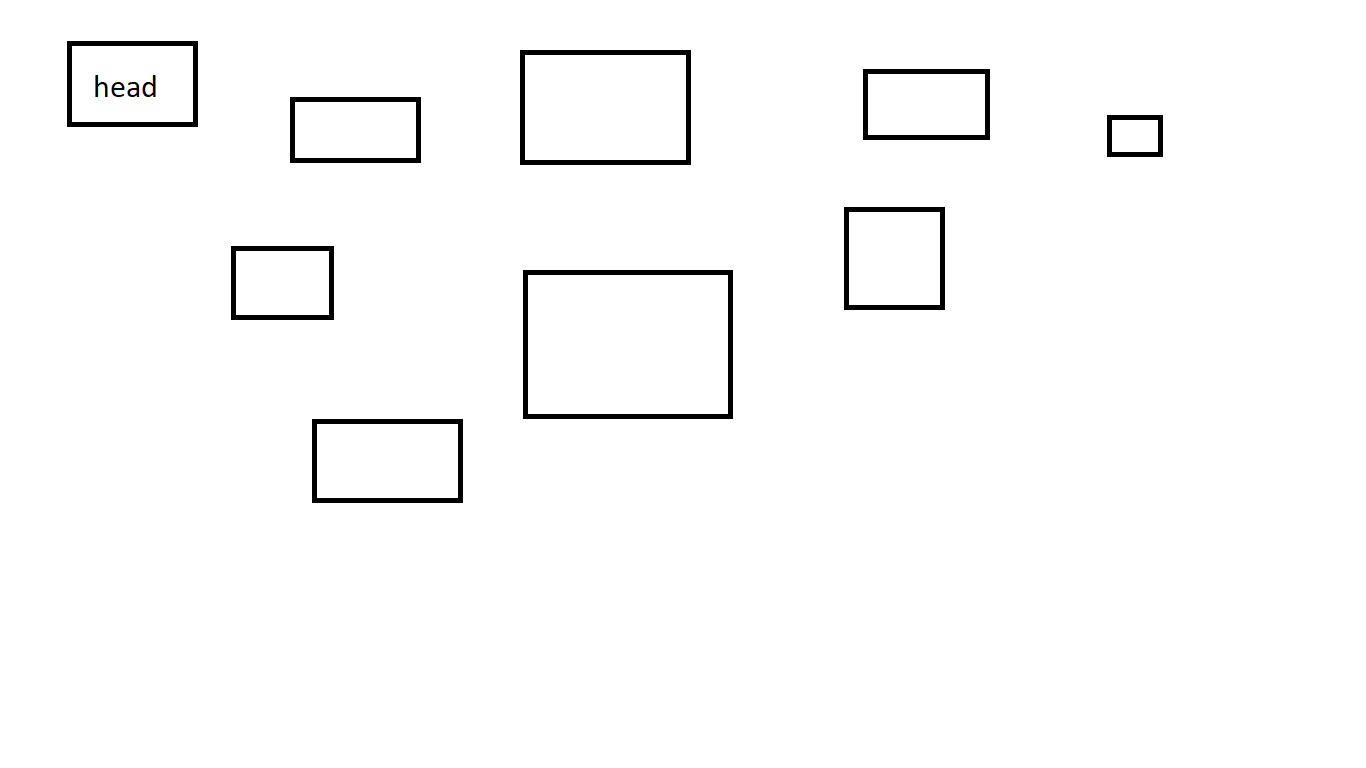
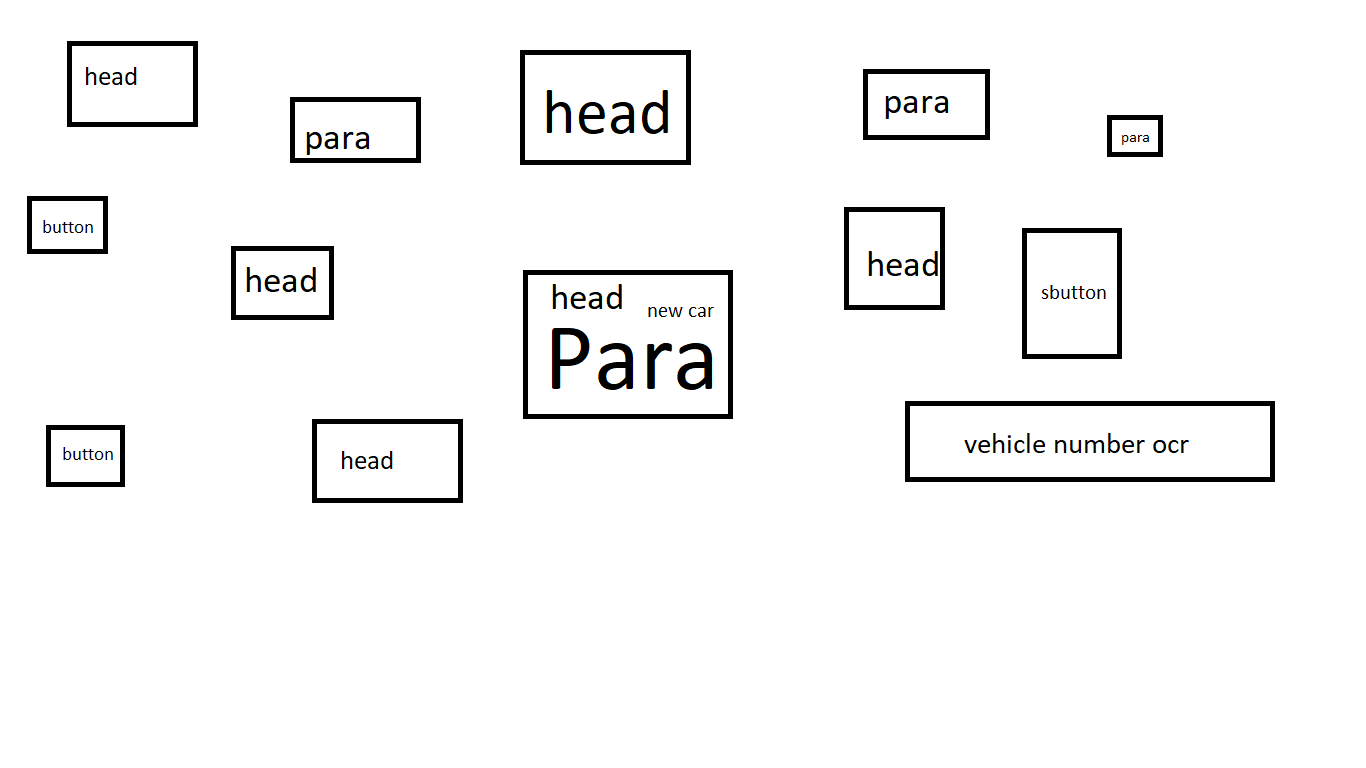
changes

diff --git a/python_scripts/image-to-code/codify-python/code/index.html b/python_scripts/image-to-code/codify-python/code/index.html
@@ -8,6 +8,6 @@
     <title>Document</title>
 </head>
 <body style="position : relative">
-    <button style='height:8px;width:8px;background-color:green;position:fixed;left:524px;top:510px;'></button><button style='height:48px;width:48px;background-color:green;position:fixed;left:1019px;top:468px;'></button><button style='height:36px;width:36px;background-color:green;position:fixed;left:943px;top:466px;'></button><button style='height:60px;width:60px;background-color:green;position:fixed;left:1013px;top:462px;'></button><button style='height:48px;width:48px;background-color:green;position:fixed;left:937px;top:460px;'></button><button style='height:38px;width:38px;background-color:green;position:fixed;left:113px;top:422px;'></button><button style='height:50px;width:50px;background-color:green;position:fixed;left:107px;top:416px;'></button><button style='height:20px;width:20px;background-color:green;position:fixed;left:331px;top:364px;'></button><div style='height:62.0px;width:515.0px; background-color: blue; position : fixed; left : 782.0px; top : 5.0px;'></div><img src='a.jpg' style='height:53.0px;width:59.0px; background-size:cover; position : fixed; left : 22.0px; top : 9.0px;' /><div style='height:50.0px;width:503.0px; background-color: blue; position : fixed; left : 788.0px; top : 11.0px;'></div><img src='a.jpg' style='height:196.0px;width:1283.0px; background-size:cover; position : fixed; left : 20.0px; top : 70.0px;' /><div style='height:48.0px;width:66.0px; background-color: blue; position : fixed; left : 22.0px; top : 283.0px;'></div><div style='height:36.0px;width:54.0px; background-color: blue; position : fixed; left : 28.0px; top : 289.0px;'></div><div style='height:58.0px;width:781.0px; background-color: blue; position : fixed; left : 19.0px; top : 344.0px;'></div><div style='height:46.0px;width:769.0px; background-color: blue; position : fixed; left : 25.0px; top : 350.0px;'></div><div style='height:47.0px;width:51.0px; background-color: blue; position : fixed; left : 21.0px; top : 414.0px;'></div><div style='height:35.0px;width:39.0px; background-color: blue; position : fixed; left : 27.0px; top : 420.0px;'></div><div style='height:40.0px;width:57.0px; background-color: blue; position : fixed; left : 778.0px; top : 458.0px;'></div><div style='height:28.0px;width:45.0px; background-color: blue; position : fixed; left : 784.0px; top : 464.0px;'></div><div style='height:35.0px;width:60.0px; background-color: blue; position : fixed; left : 461.0px; top : 469.0px;'></div><div style='height:23.0px;width:48.0px; background-color: blue; position : fixed; left : 467.0px; top : 475.0px;'></div><img src='a.jpg' style='height:77.0px;width:52.0px; background-size:cover; position : fixed; left : 20.0px; top : 475.0px;' /><div style='height:31.0px;width:62.0px; background-color: blue; position : fixed; left : 140.0px; top : 478.0px;'></div><div style='height:19.0px;width:50.0px; background-color: blue; position : fixed; left : 146.0px; top : 484.0px;'></div><div style='height:16.0px;width:104.0px; background-color: blue; position : fixed; left : 776.0px; top : 502.0px;'></div><div style='height:20.0px;width:112.0px; background-color: blue; position : fixed; left : 463.0px; top : 504.0px;'></div><div style='height:4.0px;width:51.0px; background-color: blue; position : fixed; left : 782.0px; top : 508.0px;'></div><div style='height:23.0px;width:108.0px; background-color: blue; position : fixed; left : 140.0px; top : 509.0px;'></div><div style='height:8.0px;width:100.0px; background-color: blue; position : fixed; left : 469.0px; top : 510.0px;'></div><div style='height:16.0px;width:103.0px; background-color: blue; position : fixed; left : 777.0px; top : 521.0px;'></div><div style='height:4.0px;width:48.0px; background-color: blue; position : fixed; left : 783.0px; top : 527.0px;'></div><div style='height:19.0px;width:114.0px; background-color: blue; position : fixed; left : 464.0px; top : 529.0px;'></div><div style='height:18.0px;width:107.0px; background-color: blue; position : fixed; left : 141.0px; top : 535.0px;'></div><div style='height:6.0px;width:57.0px; background-color: blue; position : fixed; left : 147.0px; top : 541.0px;'></div> 
+    <button type='button' style='height:62px;width:79px; position : fixed; border : none;background-color : '#A45f882' left : 46px; top : 425px;'>button</button><h1 style='height:84px;width:151px; position : fixed; left : 312px; top : 419px;'>heading</h1><h1 style='height:74px;width:103px; position : fixed; left : 231px; top : 246px;'>heading</h1><button type='submit' style='height:131px;width:100px; position : fixed; border : none;background-color : '#45f882' left : 1022px; top : 228px;'>submit</button><h1 style='height:103px;width:101px; position : fixed; left : 844px; top : 207px;'>heading</h1><button type='button' style='height:58px;width:81px; position : fixed; border : none;background-color : '#A45f882' left : 27px; top : 196px;'>button</button><p style='height:42px;width:56px; position : fixed; left : 1107px; top : 115px;'>para</p><p style='height:66px;width:131px; position : fixed; left : 290px; top : 97px;'>para</p><p style='height:71px;width:127px; position : fixed; left : 863px; top : 69px;'>para</p><h1 style='height:115px;width:171px; position : fixed; left : 520px; top : 50px;'>heading</h1><h1 style='height:86px;width:131px; position : fixed; left : 67px; top : 41px;'>heading</h1> 
 </body>
 </html>

diff --git a/python_scripts/image-to-code/codify-python/detect.py b/python_scripts/image-to-code/codify-python/detect.py
@@ -1,0 +1,167 @@
+# I:\Sar_loop_ai\python_scripts\image-to-code\codify-python
+# https://api.ocr.space/parse/imageurl?apikey=K81110801288957d&file=C:\Sar_loop_ai\python_scripts\image-to-code\codify-python\a.jpg&isOverlayRequired=true
+# https://3482-2409-4081-ab80-84a1-fda5-acd5-9a25-b427.ngrok-free.app/cut_image/
+
+# import cv2
+# import os
+
+# def detect_and_cut_rectangles(image_path, output_directory):
+#     # Load the image
+#     image = cv2.imread(image_path)
+
+#     # Convert the image to grayscale
+#     gray = cv2.cvtColor(image, cv2.COLOR_BGR2GRAY)
+
+#     # Apply adaptive thresholding to obtain a binary image
+#     _, threshold = cv2.threshold(gray, 0, 255, cv2.THRESH_BINARY_INV + cv2.THRESH_OTSU)
+
+#     # Find contours in the binary image
+#     contours, _ = cv2.findContours(threshold, cv2.RETR_EXTERNAL, cv2.CHAIN_APPROX_SIMPLE)
+
+#     # Create the output directory if it doesn't exist
+#     if not os.path.exists(output_directory):
+#         os.makedirs(output_directory)
+
+#     # Cut and save each detected rectangle as a separate image
+#     for i, contour in enumerate(contours):
+#         # Approximate the contour to a polygon
+#         perimeter = cv2.arcLength(contour, True)
+#         approx = cv2.approxPolyDP(contour, 0.04 * perimeter, True)
+
+#         # Check if the polygon has four sides (a rectangle)
+#         if len(approx) == 4:
+#             # Get the bounding box of the rectangle
+#             x, y, width, height = cv2.boundingRect(approx)
+
+#             # Crop the rectangle from the original image
+#             cropped_image = image[y:y+height, x:x+width]
+
+#             # Save the cropped image as a separate file
+#             output_path = os.path.join(output_directory, f"rectangle_{i+1}.png")
+#             cv2.imwrite(output_path, cropped_image)
+#             print(f"Saved rectangle {i+1} as {output_path}")
+
+# # Example usage
+# image_path = "new.png"
+# output_directory = "cut_image"
+# detect_and_cut_rectangles(image_path, output_directory)
+
+
+import cv2
+import os
+import requests
+
+btn_clr = "#45f882"
+btn_text = ["about", "home"]
+btn_text = ["car", "bus", "truck", "book"]
+
+def detect_and_cut_rectangles(image_path, output_directory):
+    # Load the image
+    image = cv2.imread(image_path)
+
+    # Convert the image to grayscale
+    gray = cv2.cvtColor(image, cv2.COLOR_BGR2GRAY)
+
+    # Apply adaptive thresholding to obtain a binary image
+    _, threshold = cv2.threshold(gray, 0, 255, cv2.THRESH_BINARY_INV + cv2.THRESH_OTSU)
+
+    # Find contours in the binary image
+    contours, _ = cv2.findContours(threshold, cv2.RETR_EXTERNAL, cv2.CHAIN_APPROX_SIMPLE)
+
+    # Create the output directory if it doesn't exist
+    if not os.path.exists(output_directory):
+        os.makedirs(output_directory)
+
+    # Store the rectangles' information in a list
+    rectangles = []
+
+    # Cut and save each detected rectangle as a separate image
+    for i, contour in enumerate(contours):
+        # Approximate the contour to a polygon
+        perimeter = cv2.arcLength(contour, True)
+        approx = cv2.approxPolyDP(contour, 0.04 * perimeter, True)
+
+        # Check if the polygon has four sides (a rectangle)
+        if len(approx) == 4:
+            # Get the bounding box of the rectangle
+            x, y, width, height = cv2.boundingRect(approx)
+
+            # Crop the rectangle from the original image
+            cropped_image = image[y:y+height, x:x+width]
+
+            # Save the cropped image as a separate file
+            output_path = os.path.join(output_directory, f"rectangle_{i+1}.png")
+            cv2.imwrite(output_path, cropped_image)
+            print(f"Saved rectangle {i+1} as {output_path}")
+
+            # Store the rectangle's information
+            rectangle_info = {
+                'x': x,
+                'y': y,
+                'width': width,
+                'height': height,
+                'output_path': output_path
+            }
+            rectangles.append(rectangle_info)
+
+    return rectangles
+
+
+# Generate HTML code based on the detected text
+div_str = ""
+
+# Example usage
+image_path = "new.png"
+output_directory = "cut_image"
+rectangles = detect_and_cut_rectangles(image_path, output_directory)
+for i, rectangle in enumerate(rectangles):
+    # print(f"Rectangle {i+1}:")
+    # print(f"Position: ({rectangle['x']}, {rectangle['y']})")
+    # print(f"Width: {rectangle['width']}")
+    # print(f"Height: {rectangle['height']}")
+    # print(f"Saved image path: {rectangle['output_path']}")
+    response = requests.get(f"https://api.ocr.space/parse/imageurl?apikey=K86785686488957&url=https://7bd7-2409-4081-ab80-84a1-d878-8eff-574d-60ef.ngrok-free.app/cut_image/rectangle_{i+1}.png")
+
+
+    if response.status_code == 200:
+        # Success: Extract text from the response
+        response_data = response.json()
+        parsed_text = response_data['ParsedResults'][0]['ParsedText']
+        text = parsed_text.strip()
+        print("detected text -", text)
+        if text == "head" :
+            # print(rectangles[i]['x'])
+            div_str += "<h1 style='height:#h#px;width:#w#px; position : fixed; left : #x#px; top : #y#px;'>heading</h1>".replace("#h#", str(rectangles[i]['height'])).replace("#w#", str(rectangles[i]['width'])).replace(
+            "#x#", str(rectangles[i]['x'])).replace("#y#", str(rectangles[i]['y']))
+        elif text == "para" :
+            # print(rectangles[i])
+            div_str += "<p style='height:#h#px;width:#w#px; position : fixed; left : #x#px; top : #y#px;'>para</p>".replace("#h#", str(rectangles[i]['height'])).replace("#w#", str(rectangles[i]['width'])).replace(
+            "#x#", str(rectangles[i]['x'])).replace("#y#", str(rectangles[i]['y']))
+        elif text == "button" :
+            # print(rectangles[i])
+            div_str += "<button type='button' style='height:#h#px;width:#w#px; position : fixed; border : none;background-color : '#A45f882' left : #x#px; top : #y#px;'>button</button>".replace("#h#", str(rectangles[i]['height'])).replace("#w#", str(rectangles[i]['width'])).replace(
+            "#x#", str(rectangles[i]['x'])).replace("#y#", str(rectangles[i]['y']))
+        elif text == "sbutton" :
+            # print(rectangles[i])
+            div_str += "<button type='submit' style='height:#h#px;width:#w#px; position : fixed; border : none;background-color : '#45f882' left : #x#px; top : #y#px;'>submit</button>".replace("#h#", str(rectangles[i]['height'])).replace("#w#", str(rectangles[i]['width'])).replace(
+            "#x#", str(rectangles[i]['x'])).replace("#y#", str(rectangles[i]['y']))
+    else :
+        print("wait times ends")
+        
+        
+        
+# # Write the HTML output to file
+with open("code/index.html", "w") as wFile:
+    wFile.write("""<!DOCTYPE html>
+<html lang="en">
+<head>
+    <meta charset="UTF-8">
+    <meta http-equiv="X-UA-Compatible
+" content="IE=edge">
+    <meta name="viewport" content="width=device-width, initial-scale=1.0">
+    <title>Document</title>
+</head>
+<body style="position : relative">
+    #div# 
+</body>
+</html>""".replace("#div#", div_str))
